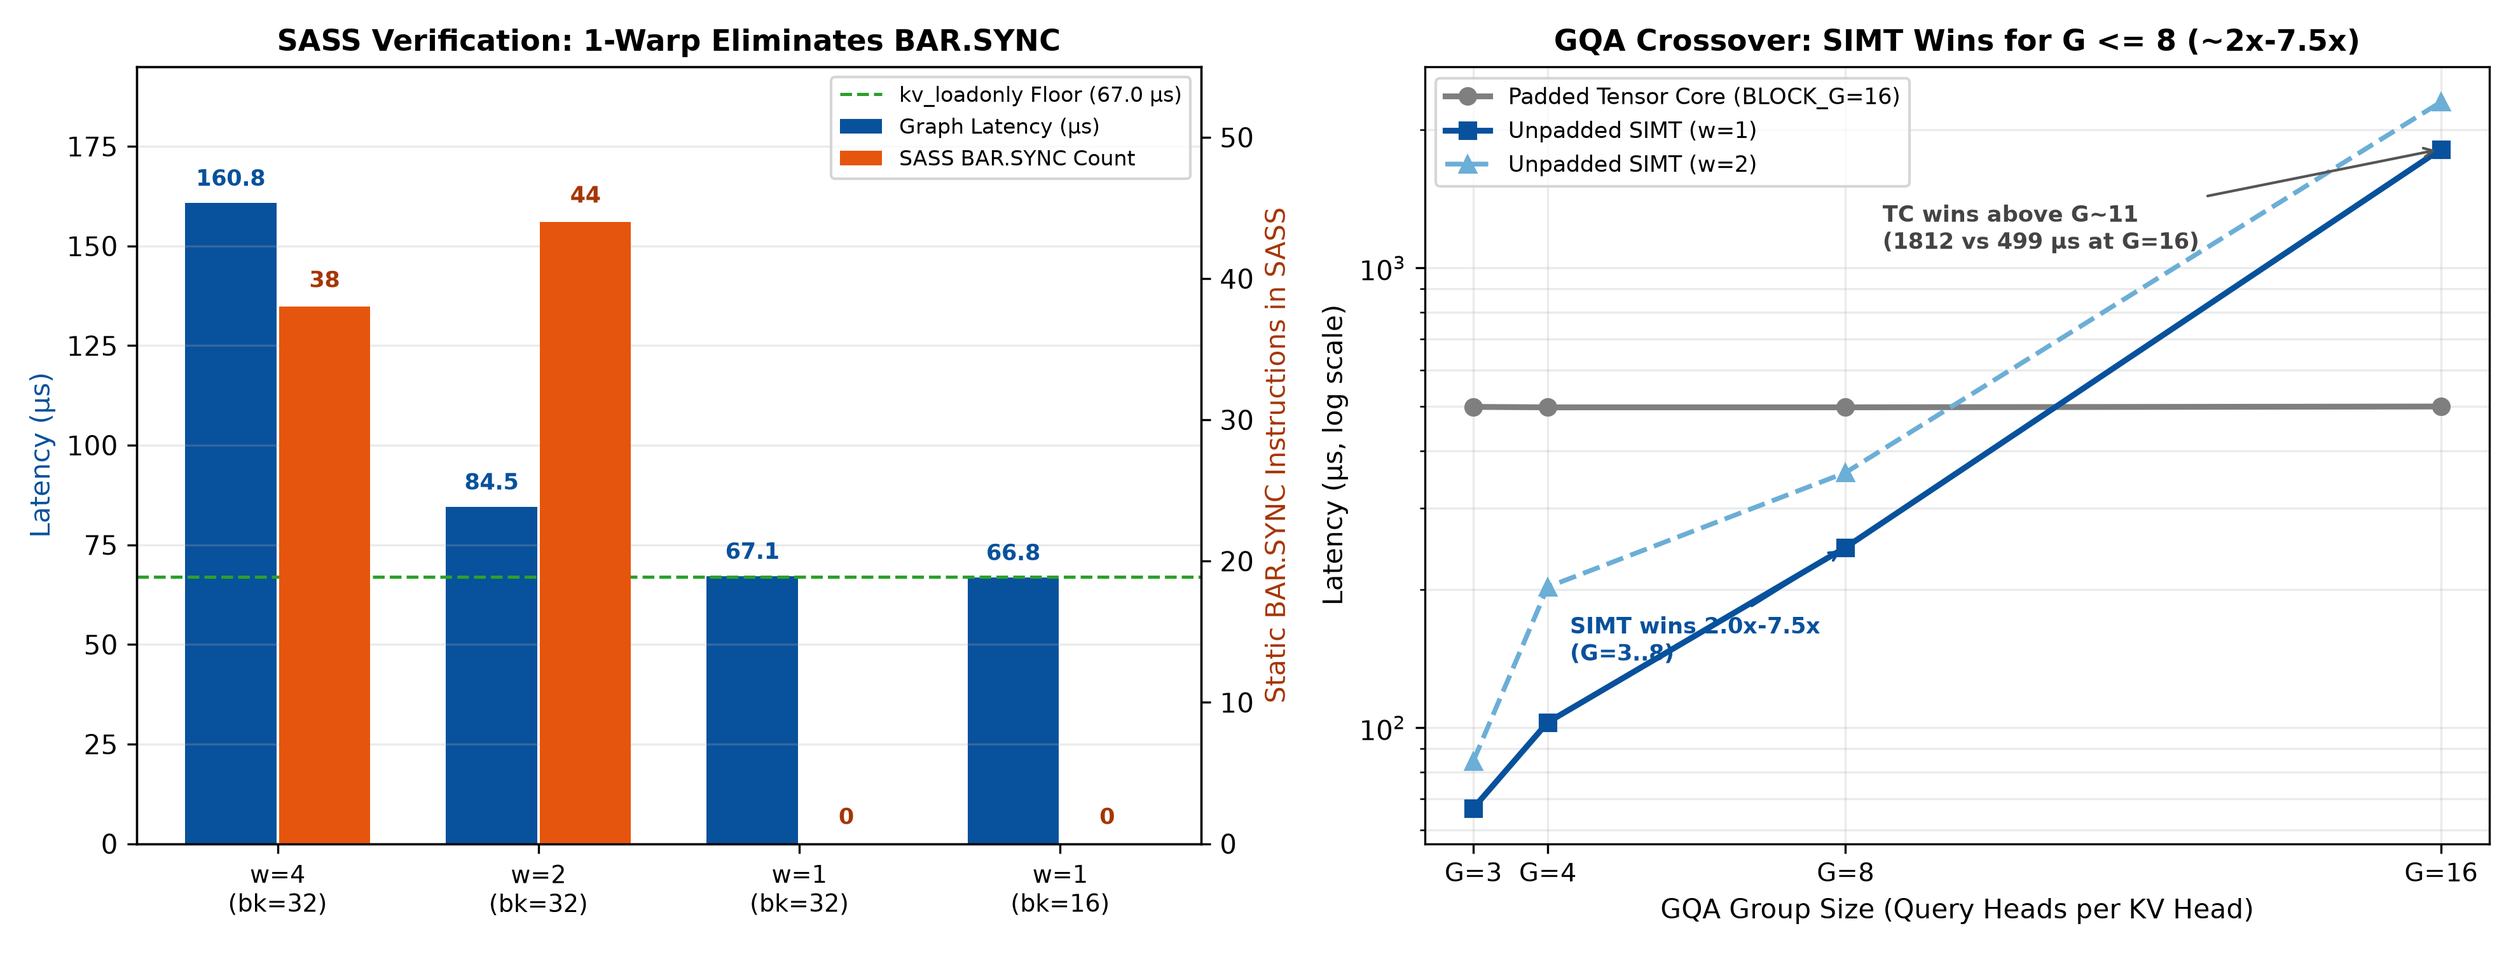
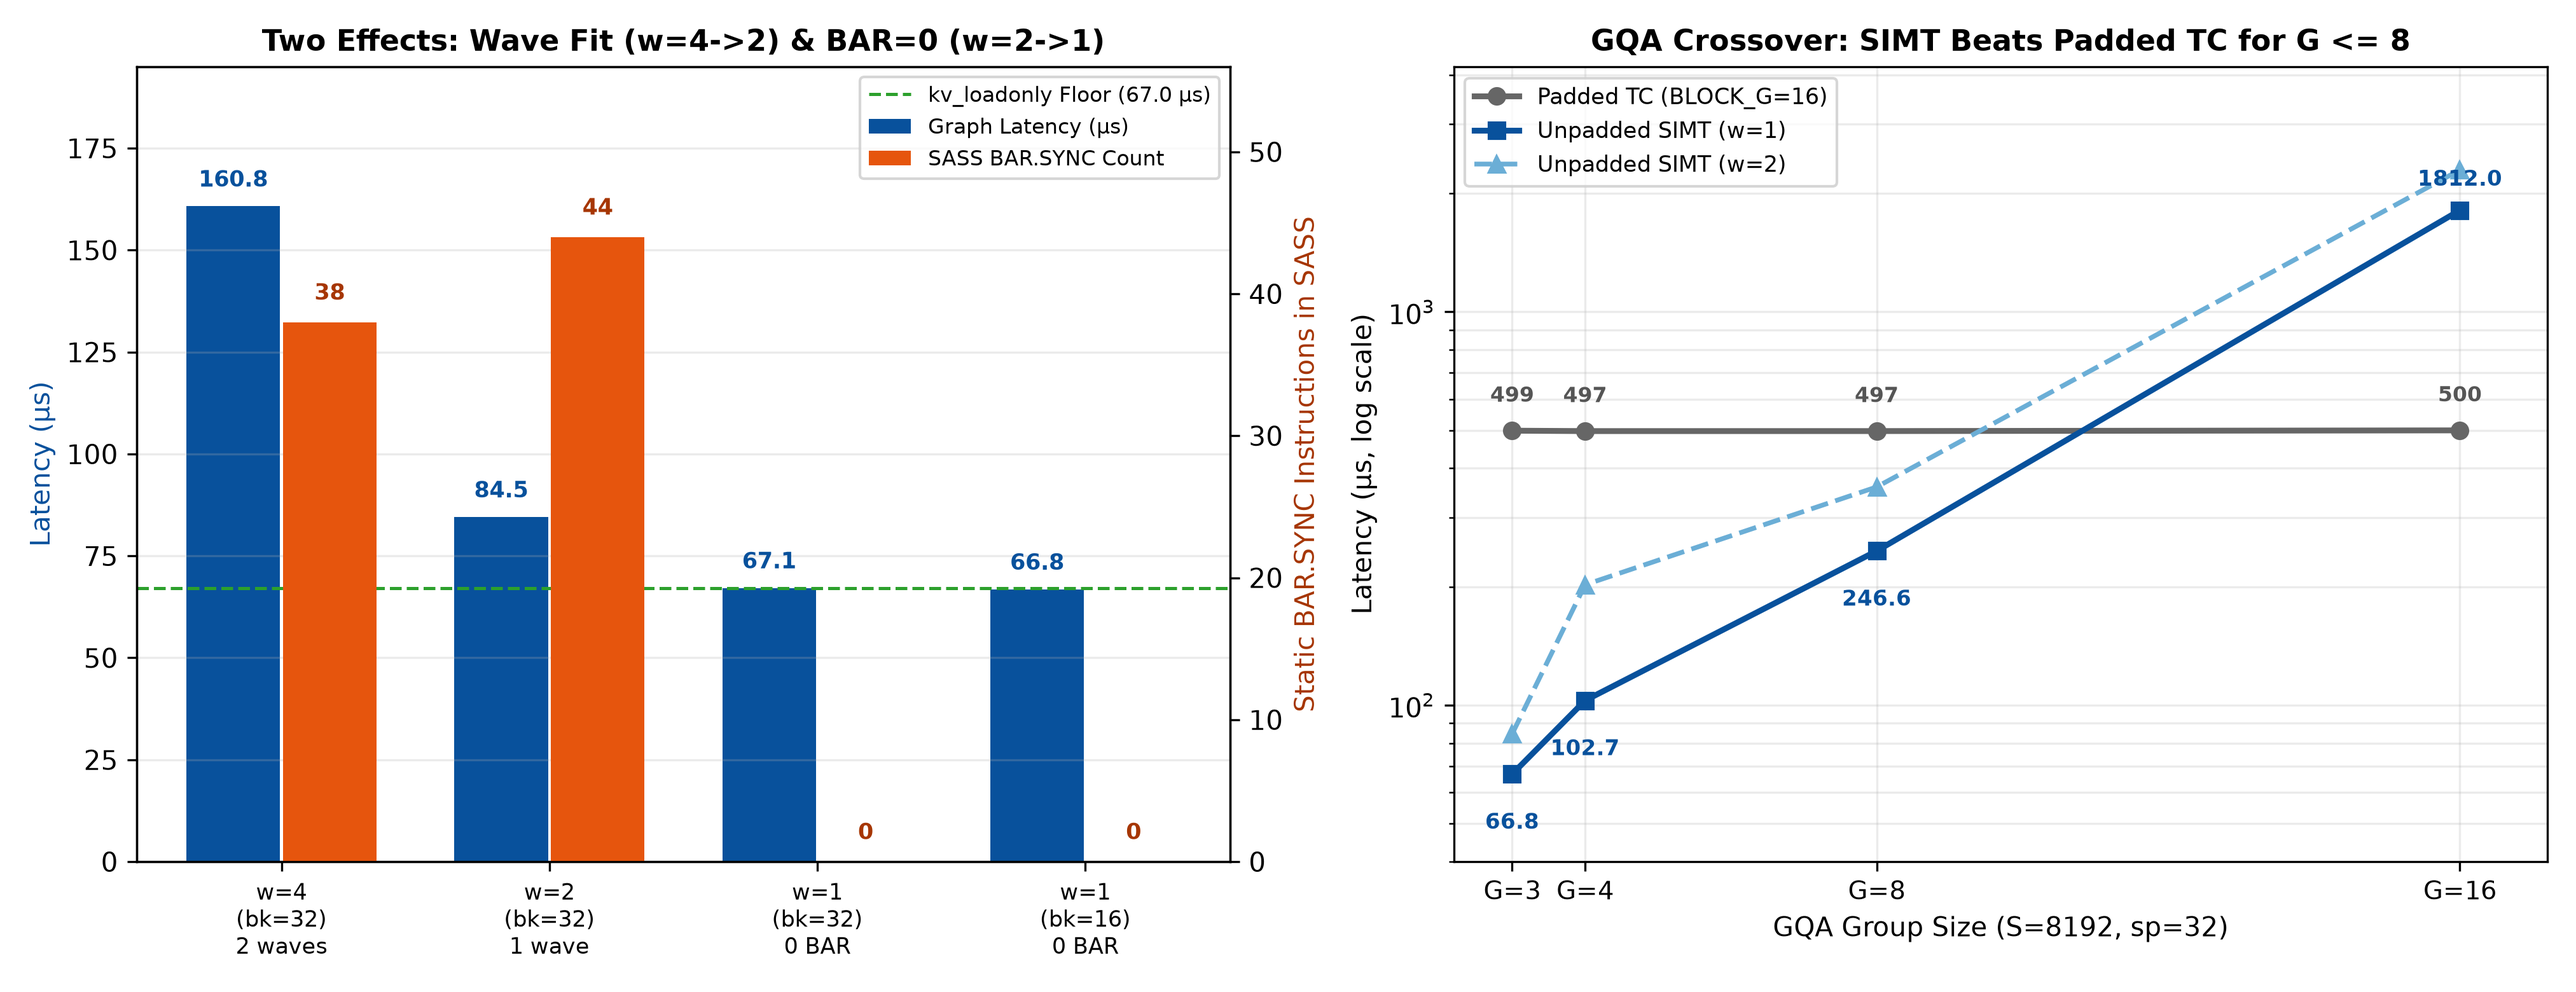
redraw clean waterfall, wikitext-2 se, and sass/g-crossover charts

diff --git a/bench/redraw_final_plots.py b/bench/redraw_final_plots.py
@@ -1,0 +1,191 @@
+import os
+import matplotlib.pyplot as plt
+import numpy as np
+
+repo_root = os.path.abspath(os.path.join(os.path.dirname(__file__), ".."))
+plots_dir = os.path.join(repo_root, "results", "plots")
+os.makedirs(plots_dir, exist_ok=True)
+
+
+def redraw_waterfall():
+    # canonical gnode043 numbers from verify_for_crossover.py (plus eval 1 vllm anchor)
+    labels = [
+        "Eval 1\nvLLM\nTRITON",
+        "Padded TC\nG=16\nsp=32",
+        "SIMT FP16\nw=4, bk=32\nsp=32",
+        "SIMT FP16\nw=2, bk=32\nsp=32",
+        "SIMT FP16\nw=1, bk=32\nsp=32",
+        "SIMT FP16\nw=1, bk=16\nsp=32",
+        "SIMT FP16\nw=1, bk=16\nsp=64",
+        "INT8 Unp\nw=2, bk=32\nsp=32",
+        "INT8 P32\nw=1, bk=16\nsp=32",
+        "INT8 P32\nw=1, bk=16\nsp=64",
+    ]
+    latencies = [431.0, 498.60, 160.76, 84.52, 67.12, 66.78, 68.36, 120.13, 75.25, 62.56]
+    colors = [
+        "#9e9e9e", "#7f7f7f",
+        "#9ecae1", "#4292c6", "#2171b5", "#08519c", "#08306b",
+        "#fdae6b", "#e6550d", "#a63603",
+    ]
+
+    fig, ax = plt.subplots(figsize=(13.5, 5.6))
+    x = np.arange(len(labels))
+    bars = ax.bar(x, latencies, width=0.62, color=colors, edgecolor="#222222", linewidth=0.6)
+
+    ax.axhline(115.0, color="#2ca02c", linestyle="--", linewidth=1.3, label="Eval 2 Target (115.0 µs)")
+    ax.axhline(67.0, color="#08519c", linestyle=":", linewidth=1.6, label="FP16 kv_loadonly Floor (67.0 µs, ~500 GB/s)")
+    ax.axhline(57.1, color="#1f77b4", linestyle="-.", linewidth=1.1, label="FP16 Theoretical Limit (57.1 µs @ 588 GB/s)")
+    ax.axhline(40.0, color="#d62728", linestyle=":", linewidth=1.6, label="INT8 kv_loadonly Floor (40.0 µs)")
+
+    for bar, lat in zip(bars, latencies):
+        ax.text(bar.get_x() + bar.get_width() / 2.0, lat + 8.0, f"{lat:.1f}",
+                ha="center", va="bottom", fontsize=8.8, fontweight="bold")
+
+    ax.set_ylabel("Per-Layer Decode Latency (µs, CUDA Graph)", fontsize=10.5)
+    ax.set_title("Canonical Evolution on RTX 2080 Ti (gnode043, B=1, S=8192): 7.47x (FP16) & 7.97x (INT8)",
+                 fontsize=11.5, fontweight="bold")
+    ax.set_xticks(x)
+    ax.set_xticklabels(labels, fontsize=8.3)
+    ax.set_ylim(0, 565)
+    ax.grid(axis="y", alpha=0.25)
+    ax.legend(loc="upper right", fontsize=8.5, framealpha=0.95)
+
+    plt.tight_layout()
+    out = os.path.join(plots_dir, "stage2_evolution_waterfall.png")
+    plt.savefig(out, dpi=300)
+    plt.close()
+    print(f"saved {out}")
+
+
+def redraw_wikitext2():
+    # verified 64-window wikitext-2 paired deltas (ctx=2048, fp16 base = 10.8738)
+    labels = [
+        "No-Had\nStat K + Tok V\n(KV8-A16)",
+        "No-Had\nQ8 + Stat K + Tok V\n(dp4a sim)",
+        "No-Had\nStat (K, V)",
+        "Hadamard\nStat K + Tok V\n(KV8-A16)",
+        "Hadamard\nQ8 + Stat K + Tok V\n(dp4a sim)",
+        "Hadamard\nStat (K, V)",
+    ]
+    deltas = [0.00066, 0.00158, 0.00800, 0.01198, 0.01268, 0.01990]
+    # paired se from check_wikitext2_se.py (0 for single-run static k,v rows)
+    ses = [0.00185, 0.00251, 0.0, 0.00205, 0.00226, 0.0]
+    ppls = [10.8738 + d for d in deltas]
+    colors = ["#2ca02c", "#17becf", "#6baed6", "#fd8d3c", "#e6550d", "#c44e52"]
+
+    fig, (ax1, ax2) = plt.subplots(1, 2, figsize=(13.5, 5.2))
+    x = np.arange(len(labels))
+
+    # left: absolute ppl vs 10.8738 baseline
+    all_labels = ["FP16\nBaseline"] + labels
+    all_ppls = [10.8738] + ppls
+    all_colors = ["#4c72b0"] + colors
+    x_all = np.arange(len(all_labels))
+
+    b1 = ax1.bar(x_all, all_ppls, width=0.58, color=all_colors, edgecolor="#222222", linewidth=0.6)
+    ax1.axhline(10.8738 + 0.05, color="#d62728", linestyle="--", linewidth=1.3, label="Target Ceiling (+0.05 PPL)")
+    for bar, v in zip(b1, all_ppls):
+        ax1.text(bar.get_x() + bar.get_width() / 2.0, v + 0.0018, f"{v:.4f}",
+                 ha="center", va="bottom", fontsize=8.0, fontweight="bold")
+    ax1.set_ylim(10.85, 10.935)
+    ax1.set_xticks(x_all)
+    ax1.set_xticklabels(all_labels, fontsize=7.6)
+    ax1.set_ylabel("Wikitext-2 Perplexity (64 windows, ctx=2048)", fontsize=10)
+    ax1.set_title("Llama-3.2-3B Wikitext-2 PPL (131k Tokens)", fontsize=11, fontweight="bold")
+    ax1.grid(axis="y", alpha=0.25)
+    ax1.legend(loc="upper left", fontsize=8.5)
+
+    # right: paired delta ppl with +/- 1 se bars
+    b2 = ax2.bar(x, deltas, yerr=ses, capsize=4, width=0.56, color=colors, edgecolor="#222222", linewidth=0.6)
+    ax2.axhline(0.05, color="#d62728", linestyle="--", linewidth=1.3, label="+0.0500 Target Budget")
+    for bar, d, se in zip(b2, deltas, ses):
+        ax2.text(bar.get_x() + bar.get_width() / 2.0, d + se + 0.0012, f"+{d:.4f}",
+                 ha="center", va="bottom", fontsize=8.2, fontweight="bold")
+
+    ax2.set_ylim(0, 0.056)
+    ax2.set_xticks(x)
+    ax2.set_xticklabels(labels, fontsize=7.6)
+    ax2.set_ylabel("Delta PPL vs FP16 (10.8738) ± 1 SE", fontsize=10)
+    ax2.set_title("No-Hadamard Static K Matches FP16 Within 1 SE", fontsize=11, fontweight="bold")
+    ax2.grid(axis="y", alpha=0.25)
+    ax2.legend(loc="upper left", fontsize=8.5)
+
+    plt.tight_layout()
+    out = os.path.join(plots_dir, "wikitext2_ppl_ablation.png")
+    plt.savefig(out, dpi=300)
+    plt.close()
+    print(f"saved {out}")
+
+
+def redraw_sass_and_crossover():
+    fig, (ax1, ax2) = plt.subplots(1, 2, figsize=(13.5, 5.2))
+
+    # left: sass bar.sync & wave quantization (fp16 simt on gnode043)
+    configs = ["w=4\n(bk=32)\n2 waves", "w=2\n(bk=32)\n1 wave", "w=1\n(bk=32)\n0 BAR", "w=1\n(bk=16)\n0 BAR"]
+    lat_fp16 = [160.76, 84.52, 67.12, 66.78]
+    bars_sync = [38, 44, 0, 0]
+    x1 = np.arange(len(configs))
+
+    ax1_r = ax1.twinx()
+    b1 = ax1.bar(x1 - 0.18, lat_fp16, width=0.35, color="#08519c", label="Graph Latency (µs)")
+    b2 = ax1_r.bar(x1 + 0.18, bars_sync, width=0.35, color="#e6550d", label="SASS BAR.SYNC Count")
+
+    for bar, v in zip(b1, lat_fp16):
+        ax1.text(bar.get_x() + bar.get_width() / 2.0, v + 3.5, f"{v:.1f}",
+                 ha="center", va="bottom", fontsize=8.5, fontweight="bold", color="#08519c")
+    for bar, v in zip(b2, bars_sync):
+        ax1_r.text(bar.get_x() + bar.get_width() / 2.0, v + 1.2, f"{v}",
+                   ha="center", va="bottom", fontsize=8.5, fontweight="bold", color="#a63603")
+
+    ax1.axhline(67.0, color="#2ca02c", linestyle="--", linewidth=1.2, label="kv_loadonly Floor (67.0 µs)")
+    ax1.set_xticks(x1)
+    ax1.set_xticklabels(configs, fontsize=8.5)
+    ax1.set_ylabel("Latency (µs)", fontsize=10, color="#08519c")
+    ax1_r.set_ylabel("Static BAR.SYNC Instructions in SASS", fontsize=10, color="#a63603")
+    ax1.set_ylim(0, 195)
+    ax1_r.set_ylim(0, 56)
+    ax1.set_title("Two Effects: Wave Fit (w=4->2) & BAR=0 (w=2->1)", fontsize=11, fontweight="bold")
+    ax1.grid(axis="y", alpha=0.25)
+
+    h1, l1 = ax1.get_legend_handles_labels()
+    h2, l2 = ax1_r.get_legend_handles_labels()
+    ax1.legend(h1 + h2, l1 + l2, loc="upper right", fontsize=8.0)
+
+    # right: gqa crossover with exact non-overlapping value callouts
+    g_vals = [3, 4, 8, 16]
+    tc_lat = [498.60, 497.43, 497.49, 499.53]
+    simt_w1 = [66.78, 102.74, 246.59, 1812.01]
+    simt_w2 = [84.52, 202.32, 358.64, 2294.80]
+
+    ax2.plot(g_vals, tc_lat, marker="o", color="#666666", linewidth=2.2, label="Padded TC (BLOCK_G=16)")
+    ax2.plot(g_vals, simt_w1, marker="s", color="#08519c", linewidth=2.2, label="Unpadded SIMT (w=1)")
+    ax2.plot(g_vals, simt_w2, marker="^", color="#6baed6", linewidth=1.8, linestyle="--", label="Unpadded SIMT (w=2)")
+
+    for g, y_tc, y_s1 in zip(g_vals, tc_lat, simt_w1):
+        ax2.text(g, y_tc * 1.15, f"{y_tc:.0f}", ha="center", va="bottom", fontsize=8.0, color="#555555", fontweight="bold")
+        va = "top" if g < 16 else "bottom"
+        dy = y_s1 * (0.80 if g < 16 else 1.12)
+        ax2.text(g, dy, f"{y_s1:.1f}", ha="center", va=va, fontsize=8.2, color="#08519c", fontweight="bold")
+
+    ax2.set_yscale("log")
+    ax2.set_ylim(40, 4200)
+    ax2.set_xlim(2.2, 17.2)
+    ax2.set_xticks(g_vals)
+    ax2.set_xticklabels([f"G={g}" for g in g_vals], fontsize=9.5)
+    ax2.set_ylabel("Latency (µs, log scale)", fontsize=10)
+    ax2.set_xlabel("GQA Group Size (S=8192, sp=32)", fontsize=10)
+    ax2.set_title("GQA Crossover: SIMT Beats Padded TC for G <= 8", fontsize=11, fontweight="bold")
+    ax2.grid(True, which="both", alpha=0.25)
+    ax2.legend(loc="upper left", fontsize=8.5)
+
+    plt.tight_layout()
+    out = os.path.join(plots_dir, "sass_and_g_crossover.png")
+    plt.savefig(out, dpi=300)
+    plt.close()
+    print(f"saved {out}")
+
+
+if __name__ == "__main__":
+    redraw_waterfall()
+    redraw_wikitext2()
+    redraw_sass_and_crossover()

diff --git a/bench/check_wikitext2_se.py b/bench/check_wikitext2_se.py
@@ -1,0 +1,141 @@
+import os
+import sys
+import csv
+import math
+import time
+import torch
+from datasets import load_dataset
+from transformers import AutoModelForCausalLM, AutoTokenizer, AttentionInterface
+from transformers.integrations.sdpa_attention import sdpa_attention_forward
+
+repo_root = os.path.abspath(os.path.join(os.path.dirname(__file__), ".."))
+
+
+def make_rand_hadamard(device, seed=42):
+    h = torch.tensor([[1.0, 1.0], [1.0, -1.0]], device=device, dtype=torch.float32)
+    for _ in range(6):
+        h = torch.kron(h, torch.tensor([[1.0, 1.0], [1.0, -1.0]], device=device, dtype=torch.float32))
+    h = h / math.sqrt(128.0)
+    gen = torch.Generator(device="cpu").manual_seed(seed)
+    signs = (torch.randint(0, 2, (128,), generator=gen, dtype=torch.int32) * 2 - 1).to(device=device, dtype=torch.float32)
+    return signs[:, None] * h
+
+
+STATE = {"mode": "fp16", "calib_s_k": {}, "h_mat": None}
+
+
+def quant_sym(x, scale):
+    return torch.round(x / scale).clamp(-128, 127) * scale
+
+
+def quant_tok(x):
+    s = x.abs().amax(dim=-1, keepdim=True).clamp(min=1e-8) / 127.0
+    return quant_sym(x, s)
+
+
+def custom_attn(module, query, key, value, attention_mask, **kw):
+    mode = STATE["mode"]
+    lidx = module.layer_idx
+    h_mat = STATE["h_mat"]
+
+    if mode == "fp16":
+        return sdpa_attention_forward(module, query, key, value, attention_mask, **kw)
+
+    if mode == "calibrate":
+        k_f = key.float()
+        k_rot = torch.matmul(k_f, h_mat)
+        s_raw = k_f.abs().amax(dim=2, keepdim=True).clamp(min=1e-8) / 127.0
+        s_rot = k_rot.abs().amax(dim=2, keepdim=True).clamp(min=1e-8) / 127.0
+        if lidx not in STATE["calib_s_k"]:
+            STATE["calib_s_k"][lidx] = {"raw": s_raw, "rot": s_rot}
+        else:
+            STATE["calib_s_k"][lidx]["raw"] = torch.maximum(STATE["calib_s_k"][lidx]["raw"], s_raw)
+            STATE["calib_s_k"][lidx]["rot"] = torch.maximum(STATE["calib_s_k"][lidx]["rot"], s_rot)
+        return sdpa_attention_forward(module, query, key, value, attention_mask, **kw)
+
+    g = query.shape[1] // key.shape[1]
+    v_q = quant_tok(value.float()).to(value.dtype)
+
+    if mode == "no_had_kstat_vtok":
+        s_k = STATE["calib_s_k"][lidx]["raw"]
+        q_eff = query
+        k_eff = quant_sym(key.float(), s_k).to(key.dtype)
+    elif mode == "had_kstat_vtok":
+        s_k = STATE["calib_s_k"][lidx]["rot"]
+        q_eff = torch.matmul(query.float(), h_mat).to(query.dtype)
+        k_eff = quant_sym(torch.matmul(key.float(), h_mat), s_k).to(key.dtype)
+    elif mode == "no_had_q8_vtok":
+        s_k = STATE["calib_s_k"][lidx]["raw"]
+        q_tilde = query.float() * s_k.repeat_interleave(g, dim=1)
+        s_q = q_tilde.abs().amax(dim=-1, keepdim=True).clamp(min=1e-8) / 127.0
+        q_eff = (torch.round(q_tilde / s_q).clamp(-128, 127) * s_q).to(query.dtype)
+        k_eff = torch.round(key.float() / s_k).clamp(-128, 127).to(key.dtype)
+    elif mode == "had_q8_vtok":
+        s_k = STATE["calib_s_k"][lidx]["rot"]
+        q_rot = torch.matmul(query.float(), h_mat)
+        k_rot = torch.matmul(key.float(), h_mat)
+        q_tilde = q_rot * s_k.repeat_interleave(g, dim=1)
+        s_q = q_tilde.abs().amax(dim=-1, keepdim=True).clamp(min=1e-8) / 127.0
+        q_eff = (torch.round(q_tilde / s_q).clamp(-128, 127) * s_q).to(query.dtype)
+        k_eff = torch.round(k_rot / s_k).clamp(-128, 127).to(key.dtype)
+    else:
+        raise ValueError(mode)
+
+    return sdpa_attention_forward(module, q_eff, k_eff, v_q, attention_mask, **kw)
+
+
+@torch.no_grad()
+def eval_window_nlls(model, ids, ctx=2048, max_wins=64):
+    nwin = min(len(ids) // ctx, max_wins)
+    win_nlls = []
+    for w in range(nwin):
+        x = ids[w * ctx : (w + 1) * ctx].unsqueeze(0).cuda()
+        h = model.model(input_ids=x, use_cache=False).last_hidden_state
+        nll = 0.0
+        for s in range(0, ctx - 1, 512):
+            e = min(s + 512, ctx - 1)
+            lg = model.lm_head(h[:, s:e]).float()
+            nll += torch.nn.functional.cross_entropy(lg[0], x[0, s + 1 : e + 1], reduction="sum").item()
+        win_nlls.append(nll / (ctx - 1))
+    return torch.tensor(win_nlls, dtype=torch.float64)
+
+
+def main():
+    model_id = "meta-llama/Llama-3.2-3B-Instruct"
+    AttentionInterface.register("se_check", custom_attn)
+    tok = AutoTokenizer.from_pretrained(model_id)
+    model = AutoModelForCausalLM.from_pretrained(model_id, torch_dtype=torch.float16,
+                                                 attn_implementation="se_check", device_map="cuda").eval()
+    STATE["h_mat"] = make_rand_hadamard("cuda", seed=42)
+
+    val_txt = "\n\n".join(load_dataset("Salesforce/wikitext", "wikitext-2-raw-v1", split="validation")["text"])
+    test_txt = "\n\n".join(load_dataset("Salesforce/wikitext", "wikitext-2-raw-v1", split="test")["text"])
+    val_ids = tok(val_txt, return_tensors="pt").input_ids[0]
+    test_ids = tok(test_txt, return_tensors="pt").input_ids[0]
+
+    STATE["mode"] = "calibrate"
+    _ = eval_window_nlls(model, val_ids, ctx=2048, max_wins=4)
+
+    modes = ["fp16", "no_had_kstat_vtok", "had_kstat_vtok", "no_had_q8_vtok", "had_q8_vtok"]
+    nll_map = {}
+    for m in modes:
+        STATE["mode"] = m
+        t0 = time.time()
+        nll_map[m] = eval_window_nlls(model, test_ids, ctx=2048, max_wins=64)
+        ppl = math.exp(nll_map[m].mean().item())
+        print(f"  {m:<20} | ppl: {ppl:.4f} | time: {time.time()-t0:.1f}s")
+
+    print("\npaired delta vs fp16 across 64 windows:")
+    base_nll = nll_map["fp16"]
+    base_ppl = math.exp(base_nll.mean().item())
+    for m in modes[1:]:
+        dnll = nll_map[m] - base_nll
+        mean_dnll = dnll.mean().item()
+        se_dnll = dnll.std(unbiased=True).item() / math.sqrt(len(dnll))
+        dppl = math.exp(nll_map[m].mean().item()) - base_ppl
+        se_ppl = base_ppl * se_dnll
+        print(f"  {m:<20} | delta_ppl: {dppl:+.5f} +/- {se_ppl:.5f} (se) | delta_nll: {mean_dnll:+.5f} +/- {se_dnll:.5f}")
+
+
+if __name__ == "__main__":
+    main()
